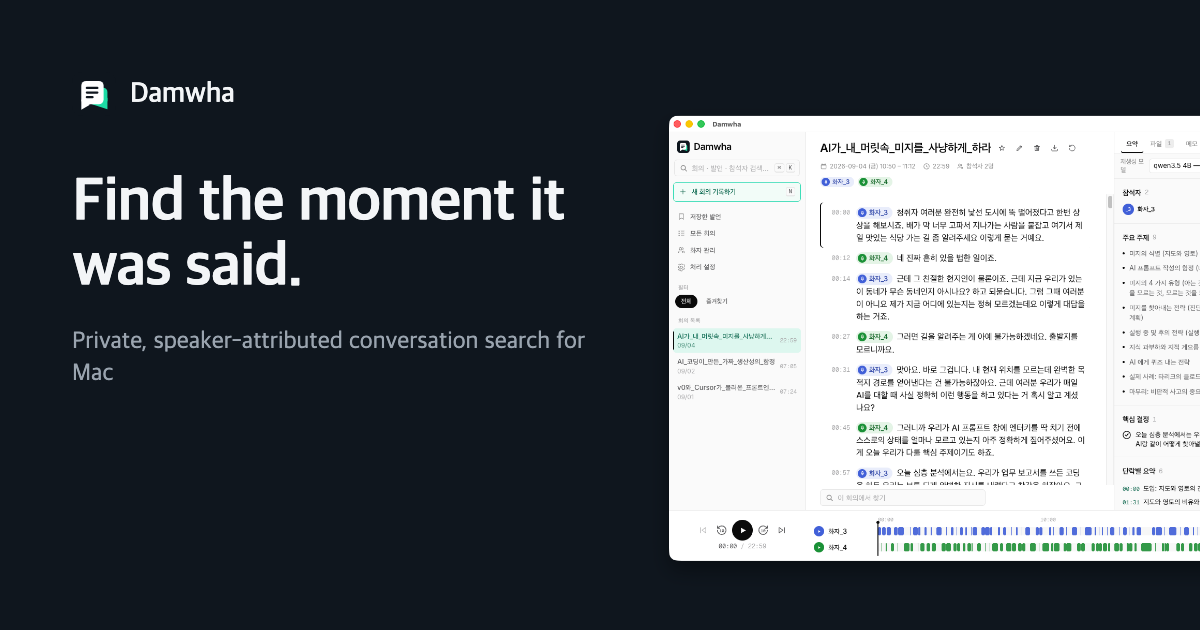
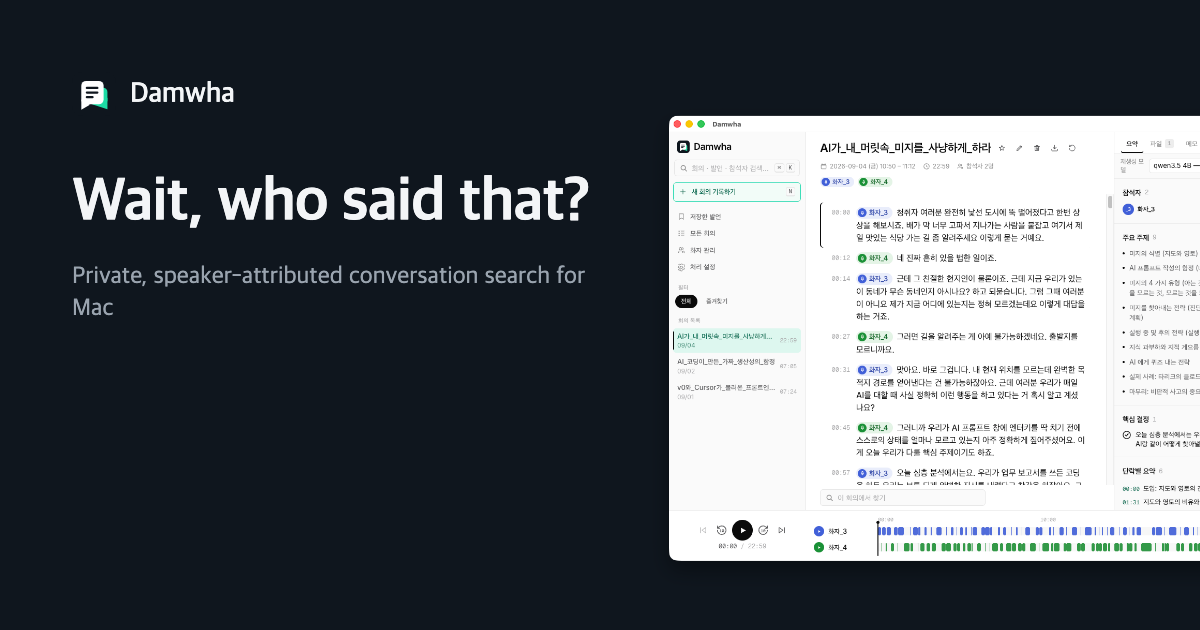
feat(site): 첫 화면 문구를 공감형 질문으로 — '그때 누가 뭐라고 했더라?' / 'Wait, who said that?'
OG 이미지를 다시 만들고, 한국어는 어절 단위로 줄을 바꾸도록 word-break: keep-all을
건다(제목이 '했더/라?'로 단어 중간에서 끊겼다).

Claude-Session: https://claude.ai/code/session_01R21X4LSrPNp5mGQ5Gyti3W

Changed region(s): [[0.0617, 0.3921, 0.4933, 0.6032], [0.0617, 0.2714, 0.4933, 0.3619]]

diff --git a/site/src/i18n/ko.ts b/site/src/i18n/ko.ts
@@ -6,15 +6,15 @@ export const ko = {
     description:
       "대화를 녹음하면 누가·언제·무슨 말을 했는지 발화 단위로 정리하고 어떤 줄이든 한 번에 원본 음성으로 이어 줘요. 전사·화자 식별·요약이 모두 내 Mac 안에서 돌아요.",
     ogImage: "/og-ko.png",
-    ogImageAlt: "담화 — 그 말, 그 순간으로.",
+    ogImageAlt: "담화 — 그때 누가 뭐라고 했더라?",
     ogLocale: "ko_KR",
     ogLocaleAlt: "en_US",
   },
   nav: { home: "담화 홈", langSwitch: "English", langSwitchLabel: "View in English", github: "GitHub" },
   hero: {
     eyebrow: "무료 · 오픈소스 · macOS",
-    title: "그 말, 그 순간으로.",
-    lede: "담화는 대화를 녹음해 누가·언제·무슨 말을 했는지 발화 단위로 정리해요. 어떤 줄이든 한 번에 원본 음성으로 이어지고 모든 처리는 내 Mac 안에서 끝나요.",
+    title: "그때 누가 뭐라고 했더라?",
+    lede: "대화를 녹음하면 담화가 누가·언제·무슨 말을 했는지 정리해 둬요. 검색하면 그 말을 한 순간의 원본 음성으로 바로 가요.",
     download: "Mac용 다운로드",
     downloadFallback: "GitHub에서 받기",
     demo: "데모 써보기",

diff --git a/site/src/i18n/en.ts b/site/src/i18n/en.ts
@@ -4,15 +4,15 @@ export const en = {
     description:
       "Record conversations, search who said what, and jump to that moment in the original audio. Transcription, speaker ID and summaries run entirely on your Mac.",
     ogImage: "/og-en.png",
-    ogImageAlt: "Damwha — Find the moment it was said.",
+    ogImageAlt: "Damwha — Wait, who said that?",
     ogLocale: "en_US",
     ogLocaleAlt: "ko_KR",
   },
   nav: { home: "Damwha home", langSwitch: "한국어", langSwitchLabel: "한국어로 보기", github: "GitHub" },
   hero: {
     eyebrow: "Free and open source · macOS",
-    title: "Find the moment it was said.",
-    lede: "Record a conversation, search who said what, and jump straight to that moment in the original audio. Everything runs on your Mac.",
+    title: "Wait, who said that?",
+    lede: "Record a conversation and Damwha keeps track of who said what, and when. Search for it and jump straight to that moment in the original audio.",
     download: "Download for Mac",
     downloadFallback: "Download from GitHub",
     demo: "Try the live demo",

diff --git a/site/src/styles/site.css b/site/src/styles/site.css
@@ -34,6 +34,12 @@
     font-family: var(--font-sans);
     -webkit-font-smoothing: antialiased;
   }
+  /* 한국어는 어절 단위로 줄을 바꾼다 — 기본값(break-all류)이면 "했더/라?"처럼 단어 중간이 끊긴다.
+     긴 URL·경로가 넘치지 않게 overflow-wrap을 함께 둔다. */
+  :lang(ko) {
+    word-break: keep-all;
+    overflow-wrap: anywhere;
+  }
   :focus-visible {
     outline: none;
     box-shadow: var(--focus-ring);

diff --git a/docs/superpowers/specs/2026-09-26-product-site-design.md b/docs/superpowers/specs/2026-09-26-product-site-design.md
@@ -209,13 +209,10 @@ Hero(`00-hero`)와 같은 화면이라 쓰지 않는다. 발화 점프의 포스
 
 ### 4.1 문구 초안
 
-**Hero**
+**Hero** (2026-09-27 개정 — 첫 방문자가 바로 공감하는 질문으로 시작한다)
 
-- EN — *Find the moment it was said.* / Damwha records your conversations and turns them into
-  speaker-attributed, searchable utterances — every line one click from the original audio.
-  Runs entirely on your Mac.
-- KO — *그 말, 그 순간으로.* / 담화는 대화를 녹음해 누가·언제·무슨 말을 했는지 발화 단위로
-  정리합니다. 어떤 줄이든 한 번에 원본 음성으로. 모든 처리는 내 Mac 안에서.
+- EN — *Wait, who said that?* / Record a conversation and Damwha keeps track of who said what, and when. Search for it and jump straight to that moment in the original audio.
+- KO — *그때 누가 뭐라고 했더라?* / 대화를 녹음하면 담화가 누가·언제·무슨 말을 했는지 정리해 둬요. 검색하면 그 말을 한 순간의 원본 음성으로 바로 가요.
 - 버튼: `Download for Mac` / `Mac용 다운로드`, `Try the live demo` / `데모 써보기`
 - 버튼 아래: `v0.4.1 · Apple Silicon · macOS 15+`(§3.7 빌드 값, 여기 적은 것은 예시)
 
